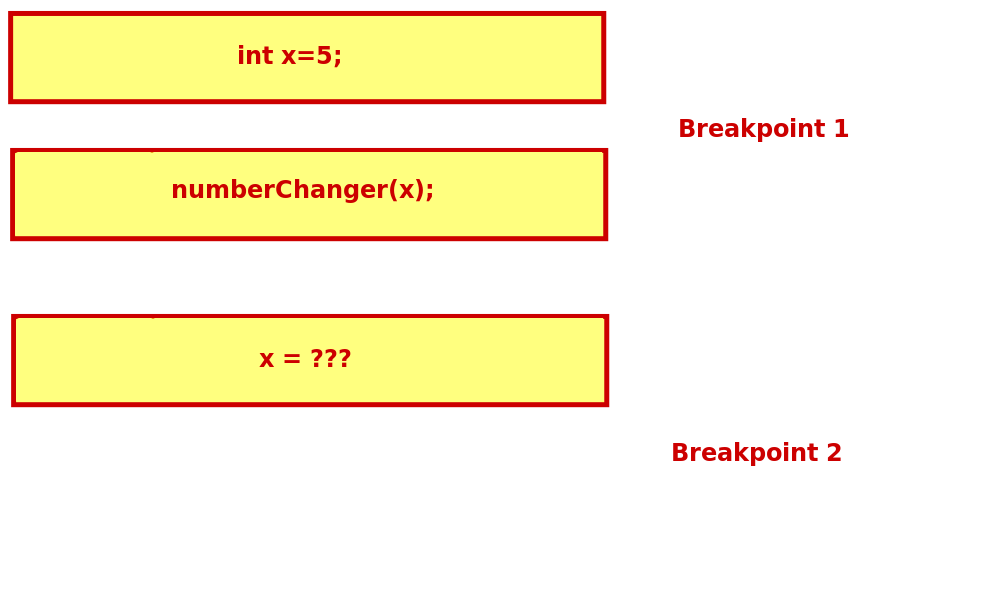
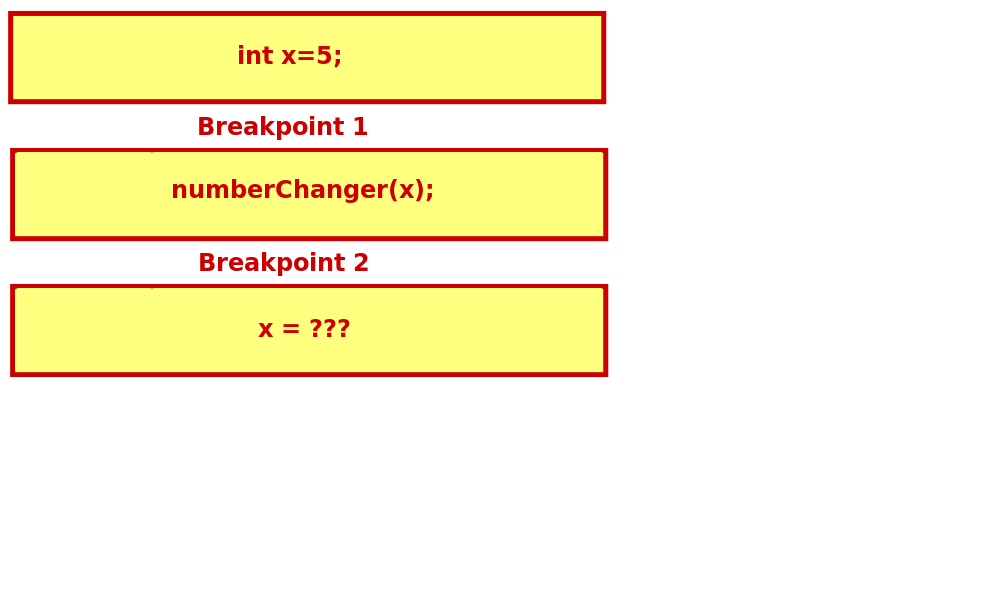
Centered the new image and changed the position of the breakpoints in the image.

diff --git a/lessons/lesson4.html b/lessons/lesson4.html
@@ -61,10 +61,11 @@
   example, GDB can be utilized to set a breakpoint before and after the function is called
   to identify the behavior of the variable and instructions within the function.
 </p>
+<center>
   <img src="breakPointEx.png" alt="">
 
   </img>
-
+</center>
 
 </body>
 </html>
